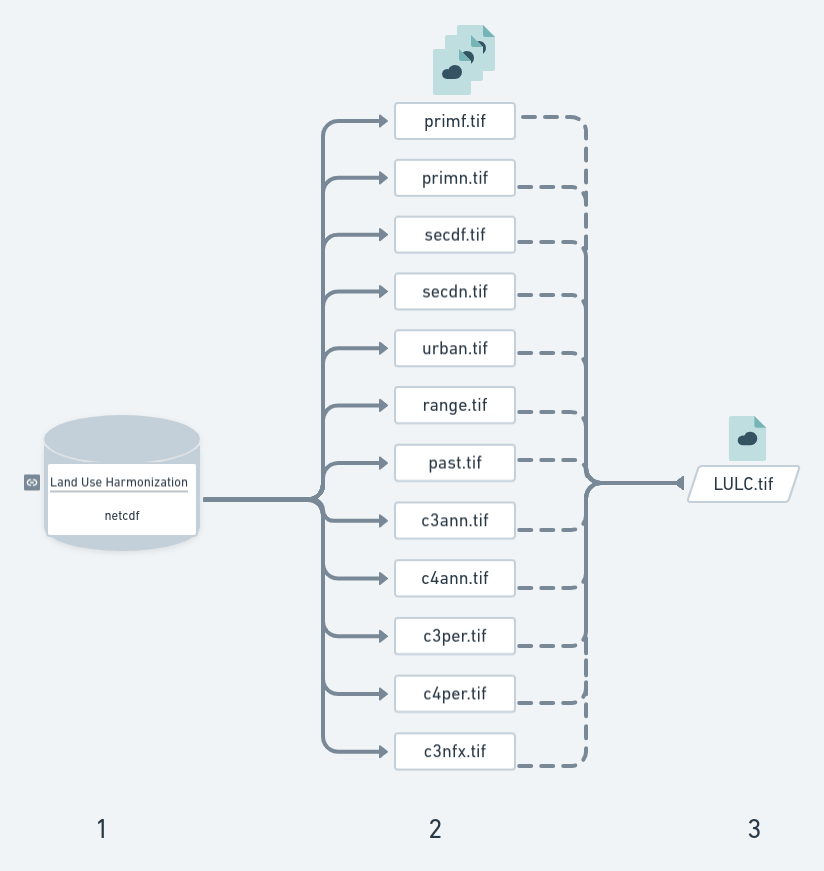
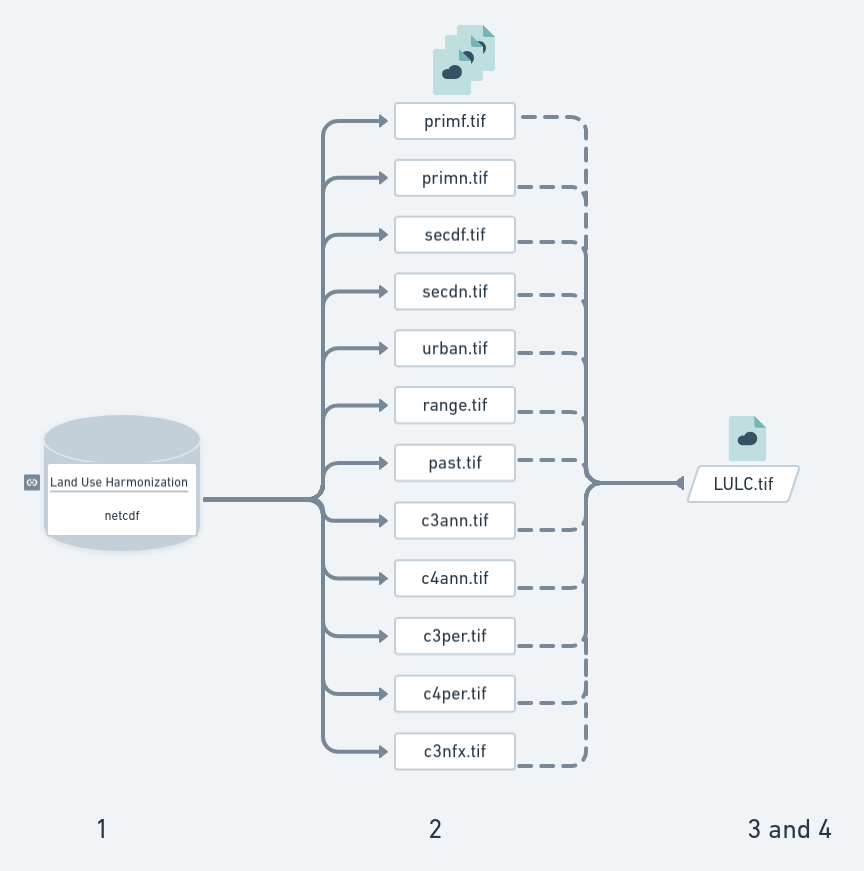
updating...

diff --git a/README.md b/README.md
@@ -9,7 +9,7 @@ The Land use Harmonization Project (LUH https://luh.umd.edu/index.shtml) provide
 The raw data managed here is available for download in the follow link : https://luh.umd.edu/data.shtml. Also it's the the latestet version of models earth system, called CMPI6 (Coupled Model Intercomparison Project 6). Here we built a R scripts to conversion the "States" netcdf files in Tagged Image Format File (.tif extention) that is commoly input for ecological and biogeographic analysis.  We also create a new categorica data that is a land use land cover (LULC) based on twelve raw states, this LULC is an importante data for several spatial analysis as post processing for species distribution models (or ecological niche models), conservation plans and many others in which it's important to incorporate the LULC (Torres et al 2014, Falcucci et al 2017, Hanna et al 2020). 
 Our workflow have 4 steps 
 
-    [X] Extract one by one of twelve states per year from 850 to 2100 and for two future scenarios (RCP 4.5/SSP2 and RCP 8.5/SSP5)
+    - [ ] 1. Extract one by one of twelve states per year from 850 to 2100 and for two future scenarios (RCP 4.5/SSP2 and RCP 8.5/SSP5)
       
       States:
       primf: forested primary land
@@ -25,8 +25,9 @@ Our workflow have 4 steps
       c4per: C4 perennial crops
       c3nfx: C3 nitrogen-fixing crops
 
-    [ ] Save each single state (which is a continuous data) as a TIF format
-    [ ] We created a new data that is Lad use land cover data with 12 states
+    - [ ] 2. Save each single state (which is a continuous data) as a TIF format
+    - [ ] 3. We created a new data that is Lad use land cover data with 12 states
+    - [ ] 4. Validate the data (in progress...)
 
 <img src="https://user-images.githubusercontent.com/11633554/100250374-5d8c5600-2f1c-11eb-8302-0e1af71ebf66.png" width="550">
 
